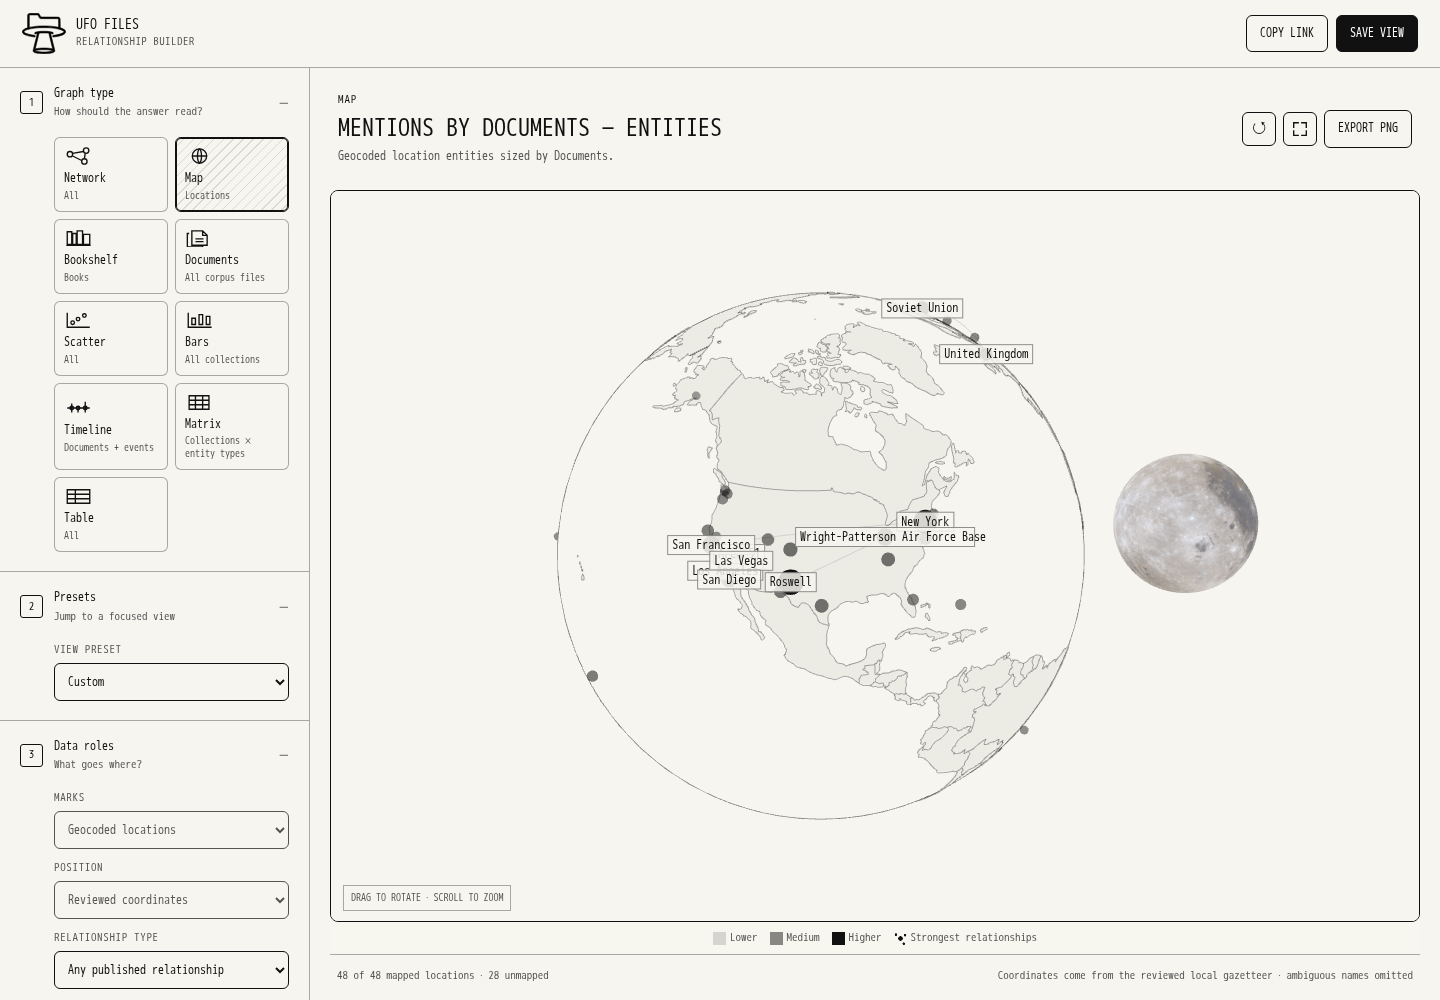
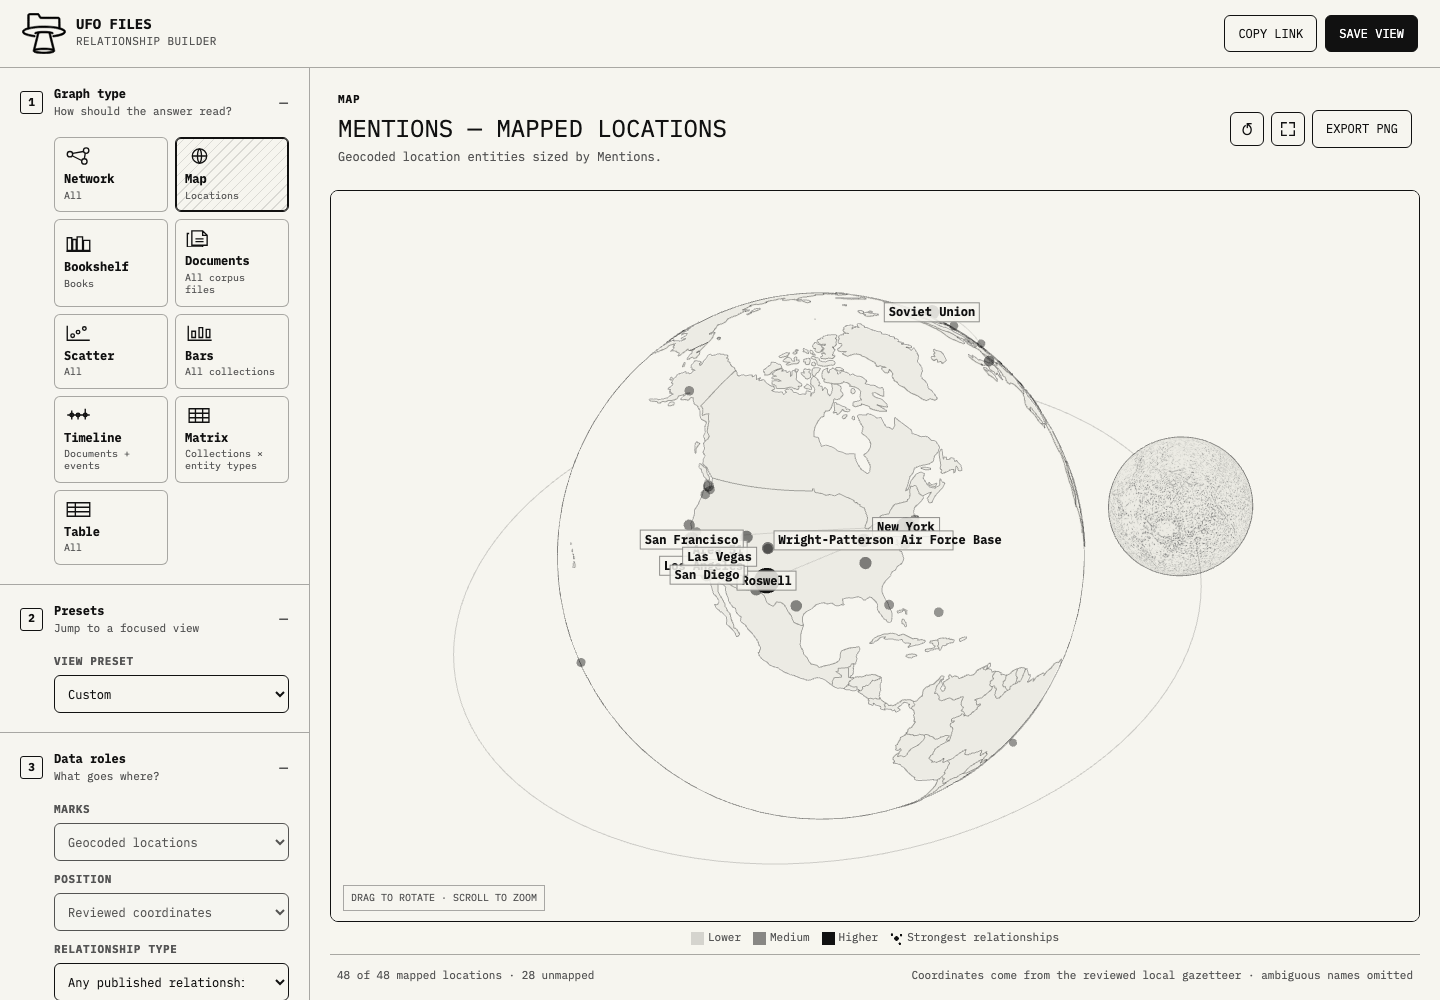
Align Moon motion and map styling

diff --git a/map-globe.js b/map-globe.js
@@ -16,7 +16,9 @@ const MOON_ORBIT_INCLINATION = 5.145;
 const MOON_RADIUS = MOON_EQUATORIAL_RADIUS_KM / EARTH_EQUATORIAL_RADIUS_KM;
 // The true average separation is about 60 Earth radii; this display-only gap keeps the map usable.
 const MOON_DISPLAY_ORBIT_RADIUS = 1.42;
-const MOON_ORBIT_SPEED = AUTO_ROTATION_SPEED / MOON_ORBIT_DAYS;
+// Physical time is compressed so a complete orbit is observable in the interactive view.
+const MOON_DISPLAY_ORBIT_PERIOD_MS = 30_000;
+const MOON_ORBIT_SPEED = Math.PI * 2 / MOON_DISPLAY_ORBIT_PERIOD_MS;
 
 function cameraDistanceForCoverage(verticalFov, coverage) {
   const halfFov = THREE.MathUtils.degToRad(verticalFov / 2);
@@ -32,9 +34,11 @@ class GlobeMap {
     this.camera = new THREE.PerspectiveCamera(38, 1, .1, 100);
     this.camera.position.set(DEFAULT_CAMERA_TARGET_X, 0, cameraDistanceForCoverage(this.camera.fov, DEFAULT_GLOBE_COVERAGE));
     this.camera.lookAt(DEFAULT_CAMERA_TARGET_X, 0, 0);
+    this.earthMoonSystem = new THREE.Group();
+    this.earthMoonSystem.rotation.set(DEFAULT_GLOBE_ROTATION.x, DEFAULT_GLOBE_ROTATION.y, 0);
+    this.scene.add(this.earthMoonSystem);
     this.globe = new THREE.Group();
-    this.globe.rotation.set(DEFAULT_GLOBE_ROTATION.x, DEFAULT_GLOBE_ROTATION.y, 0);
-    this.scene.add(this.globe);
+    this.earthMoonSystem.add(this.globe);
     this.raycaster = new THREE.Raycaster();
     this.pointer = new THREE.Vector2();
     this.nodes = [];
@@ -56,18 +60,45 @@ class GlobeMap {
   addMoon() {
     const orbitPlane = new THREE.Group();
     orbitPlane.rotation.z = THREE.MathUtils.degToRad(MOON_ORBIT_INCLINATION);
-    this.scene.add(orbitPlane);
+    this.earthMoonSystem.add(orbitPlane);
+    const orbitPoints = Array.from({ length: 128 }, (_, index) => {
+      const angle = index / 128 * Math.PI * 2;
+      return new THREE.Vector3(
+        Math.cos(angle) * MOON_DISPLAY_ORBIT_RADIUS,
+        0,
+        Math.sin(angle) * MOON_DISPLAY_ORBIT_RADIUS
+      );
+    });
+    const orbitPath = new THREE.LineLoop(
+      new THREE.BufferGeometry().setFromPoints(orbitPoints),
+      new THREE.LineBasicMaterial({ color: 0x111111, transparent: true, opacity: .18 })
+    );
+    orbitPath.name = "moon-orbit-path";
+    orbitPlane.add(orbitPath);
     this.moonOrbit = new THREE.Group();
     orbitPlane.add(this.moonOrbit);
 
-    this.moonMaterial = new THREE.MeshBasicMaterial({ color: 0xc4c2ba });
-    const moon = new THREE.Mesh(
+    this.moonMaterial = new THREE.MeshBasicMaterial({ color: 0xd0cec7 });
+    const moon = new THREE.Group();
+    moon.name = "moon";
+    moon.position.x = MOON_DISPLAY_ORBIT_RADIUS;
+    // SphereGeometry maps the source's central near-side meridian to +X. At the
+    // starting +X orbital position, rotate it toward Earth (-X). Inheriting the
+    // orbit group's rotation then keeps that same face Earth-facing at every angle.
+    moon.rotation.y = Math.PI;
+    const surface = new THREE.Mesh(
       new THREE.SphereGeometry(MOON_RADIUS, 64, 48),
       this.moonMaterial
     );
-    moon.name = "moon";
-    moon.position.x = MOON_DISPLAY_ORBIT_RADIUS;
-    // As the orbit group turns, the Moon turns with it so the same face stays toward Earth.
+    surface.name = "moon-surface";
+    moon.add(surface);
+    const outline = new THREE.Mesh(
+      new THREE.SphereGeometry(MOON_RADIUS * 1.012, 64, 48),
+      new THREE.MeshBasicMaterial({ color: 0x111111, transparent: true, opacity: .5, side: THREE.BackSide })
+    );
+    outline.name = "moon-outline";
+    moon.add(outline);
+    this.moon = moon;
     this.moonOrbit.add(moon);
   }
 
@@ -75,7 +106,7 @@ class GlobeMap {
     if (this.moonTextureRequested) return;
     this.moonTextureRequested = true;
     new THREE.TextureLoader().load(
-      "assets/map/moon-lroc-color.jpg",
+      "assets/map/moon-paper.png",
       texture => {
         texture.colorSpace = THREE.SRGBColorSpace;
         texture.anisotropy = Math.min(8, this.renderer.capabilities.getMaxAnisotropy());
@@ -181,8 +212,8 @@ class GlobeMap {
         const dx = event.clientX - this.drag.x;
         const dy = event.clientY - this.drag.y;
         this.dragDistance += Math.abs(dx) + Math.abs(dy);
-        this.globe.rotation.y += dx * .006;
-        this.globe.rotation.x = THREE.MathUtils.clamp(this.globe.rotation.x + dy * .004, -1.15, 1.15);
+        this.earthMoonSystem.rotation.y += dx * .006;
+        this.earthMoonSystem.rotation.x = THREE.MathUtils.clamp(this.earthMoonSystem.rotation.x + dy * .004, -1.15, 1.15);
         this.drag = { x: event.clientX, y: event.clientY };
         this.draw();
       }
@@ -201,10 +232,10 @@ class GlobeMap {
     canvas.addEventListener("dblclick", () => this.reset());
     canvas.addEventListener("keydown", event => {
       const step = event.shiftKey ? .25 : .1;
-      if (event.key === "ArrowLeft") this.globe.rotation.y -= step;
-      else if (event.key === "ArrowRight") this.globe.rotation.y += step;
-      else if (event.key === "ArrowUp") this.globe.rotation.x = Math.max(-1.15, this.globe.rotation.x - step);
-      else if (event.key === "ArrowDown") this.globe.rotation.x = Math.min(1.15, this.globe.rotation.x + step);
+      if (event.key === "ArrowLeft") this.earthMoonSystem.rotation.y -= step;
+      else if (event.key === "ArrowRight") this.earthMoonSystem.rotation.y += step;
+      else if (event.key === "ArrowUp") this.earthMoonSystem.rotation.x = Math.max(-1.15, this.earthMoonSystem.rotation.x - step);
+      else if (event.key === "ArrowDown") this.earthMoonSystem.rotation.x = Math.min(1.15, this.earthMoonSystem.rotation.x + step);
       else if (["+", "="].includes(event.key)) this.camera.position.z = Math.max(1.75, this.camera.position.z - .2);
       else if (event.key === "-") this.camera.position.z = Math.min(5, this.camera.position.z + .2);
       else return;
@@ -367,7 +398,9 @@ class GlobeMap {
   }
 
   reset() {
-    this.globe.rotation.set(DEFAULT_GLOBE_ROTATION.x, DEFAULT_GLOBE_ROTATION.y, 0);
+    this.earthMoonSystem.rotation.set(DEFAULT_GLOBE_ROTATION.x, DEFAULT_GLOBE_ROTATION.y, 0);
+    this.globe.rotation.set(0, 0, 0);
+    this.moonOrbit.rotation.set(0, 0, 0);
     this.camera.position.set(DEFAULT_CAMERA_TARGET_X, 0, cameraDistanceForCoverage(this.camera.fov, DEFAULT_GLOBE_COVERAGE));
     this.camera.lookAt(DEFAULT_CAMERA_TARGET_X, 0, 0);
     this.draw();

diff --git a/tests/test_app.js b/tests/test_app.js
@@ -450,13 +450,18 @@ test("Map is a first-class Three.js graph type with reviewed location data", () 
   assert.match(globe, /MOON_EQUATORIAL_RADIUS_KM = 1737\.4/);
   assert.match(globe, /MOON_RADIUS = MOON_EQUATORIAL_RADIUS_KM \/ EARTH_EQUATORIAL_RADIUS_KM/);
   assert.match(globe, /MOON_ORBIT_DAYS = 27\.322/);
-  assert.match(globe, /MOON_ORBIT_SPEED = AUTO_ROTATION_SPEED \/ MOON_ORBIT_DAYS/);
-  assert.match(globe, /moon-lroc-color\.jpg/);
-  assert.match(globe, /loadMoonTexture\(\) \{[\s\S]*new THREE\.TextureLoader\(\)\.load\([\s\S]*moon-lroc-color\.jpg/);
+  assert.match(globe, /MOON_DISPLAY_ORBIT_PERIOD_MS = 30_000/);
+  assert.match(globe, /MOON_ORBIT_SPEED = Math\.PI \* 2 \/ MOON_DISPLAY_ORBIT_PERIOD_MS/);
+  assert.match(globe, /moon-paper\.png/);
+  assert.match(globe, /loadMoonTexture\(\) \{[\s\S]*new THREE\.TextureLoader\(\)\.load\([\s\S]*moon-paper\.png/);
   assert.match(globe, /setVisible\(visible\) \{[\s\S]*if \(visible\) \{[\s\S]*this\.loadMoonTexture\(\)/);
   assert.doesNotMatch(globe.slice(globe.indexOf("  addMoon()"), globe.indexOf("  loadMoonTexture()")), /TextureLoader/);
+  assert.match(globe, /new THREE\.LineLoop/);
+  assert.match(globe, /moon\.rotation\.y = Math\.PI/);
+  assert.match(globe, /this\.earthMoonSystem\.add\(orbitPlane\)/);
+  assert.match(globe, /this\.earthMoonSystem\.rotation\.y \+= dx \* \.006/);
   assert.match(globe, /this\.moonOrbit\.rotation\.y \+= elapsed \* MOON_ORBIT_SPEED/);
-  assert.match(html, /The Moon is sized to scale and rotates synchronously as it orbits/);
+  assert.match(html, /Drag or use arrow keys to rotate the Earth and Moon together/);
   assert.match(globe, /QuadraticBezierCurve3/);
   assert.match(globe, /payload\.relationships/);
   assert.match(globe, /relationshipLayer === "always"/);
@@ -466,6 +471,7 @@ test("Map is a first-class Three.js graph type with reviewed location data", () 
   assert.match(threeModule, /three\.core\.min\.js/);
   assert.ok(fs.statSync("vendor/three.core.min.js").size > 300_000);
   assert.ok(fs.statSync("assets/map/moon-lroc-color.jpg").size > 400_000);
+  assert.ok(fs.statSync("assets/map/moon-paper.png").size > 20_000);
   assert.match(fs.readFileSync("assets/map/moon-texture-source.txt", "utf8"), /NASA Scientific Visualization Studio/);
 });
 

diff --git a/index.html b/index.html
@@ -84,7 +84,7 @@
         <div class="loading" id="loadingState"><span></span>Reading local catalog…</div>
         <svg id="chart" role="img" aria-labelledby="graphTitle graphSubtitle"></svg>
         <div id="mapView" class="map-view" role="img" aria-labelledby="graphTitle graphSubtitle" hidden>
-          <canvas id="globeCanvas" tabindex="0" aria-label="Interactive Earth and Moon map. The Moon is sized to scale and rotates synchronously as it orbits. Drag or use arrow keys to rotate Earth; scroll or use plus and minus to zoom."></canvas>
+          <canvas id="globeCanvas" tabindex="0" aria-label="Interactive Earth and Moon map. The Moon is sized to scale and follows a time-compressed, synchronously rotating orbit. Drag or use arrow keys to rotate the Earth and Moon together; scroll or use plus and minus to zoom."></canvas>
           <div id="globeLabels" class="globe-labels" aria-hidden="true"></div>
           <span id="mapStatus" class="map-status">Loading country map…</span>
         </div>

diff --git a/README.md b/README.md
@@ -80,7 +80,7 @@ Entities are a global data role: they can be network nodes, a Scatter axis, the 
 
 The Book type is an area-proportional abstract bookshelf. Each block is a title explicitly identified in transcript text, with area and shade controlled by the selected prominence metric. Titles are extracted only from book, novel, or memoir cues; each mark opens its source evidence in the inspector.
 
-The Map type renders a rotatable Three.js globe with SVG country boundaries and location-entity nodes. A Moon sized proportionally to Earth follows a synchronously rotating orbit; only the displayed orbital gap is compressed so Earth remains useful as a map. Node position comes only from the reviewed `data/location_coordinates.json` gazetteer; ambiguous and unmapped names are reported but never guessed onto the globe. Map nodes retain the same collection, confidence, prominence-inflation, size, label, and evidence-inspection controls as other entity views.
+The Map type renders a rotatable Three.js globe with SVG country boundaries and location-entity nodes. A Moon sized proportionally to Earth follows a visible, time-compressed orbit while keeping its near side tidally locked toward Earth. Its flat paper-and-ink treatment matches the map, and dragging rotates the complete Earth–Moon system. Only the displayed orbital gap is compressed so Earth remains useful as a map. Node position comes only from the reviewed `data/location_coordinates.json` gazetteer; ambiguous and unmapped names are reported but never guessed onto the globe. Map nodes retain the same collection, confidence, prominence-inflation, size, label, and evidence-inspection controls as other entity views.
 
 ## Run locally
 
@@ -167,4 +167,4 @@ changes on `main`, and can be started manually. It does not run for pull request
 
 ## Map data and licenses
 
-The vendored Three.js module is version 0.185.1 and is distributed under the MIT license in `vendor/THREE-LICENSE.txt`. Country boundaries in `assets/map/world-countries.svg` are generated from Natural Earth’s public-domain 1:110m Admin 0 Countries dataset using `scripts/geojson_to_svg.py`. The Moon surface uses NASA Scientific Visualization Studio’s 2K LRO color map; source and credit details are in `assets/map/moon-texture-source.txt`.
+The vendored Three.js module is version 0.185.1 and is distributed under the MIT license in `vendor/THREE-LICENSE.txt`. Country boundaries in `assets/map/world-countries.svg` are generated from Natural Earth’s public-domain 1:110m Admin 0 Countries dataset using `scripts/geojson_to_svg.py`. The Moon surface is a flat grayscale treatment derived from NASA Scientific Visualization Studio’s 2K LRO color map; source and credit details are in `assets/map/moon-texture-source.txt`.
